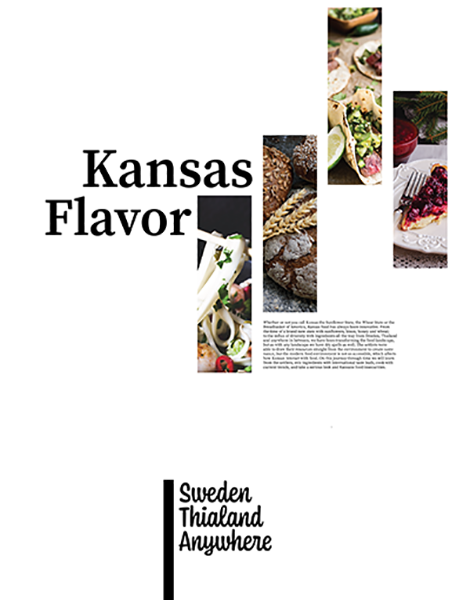
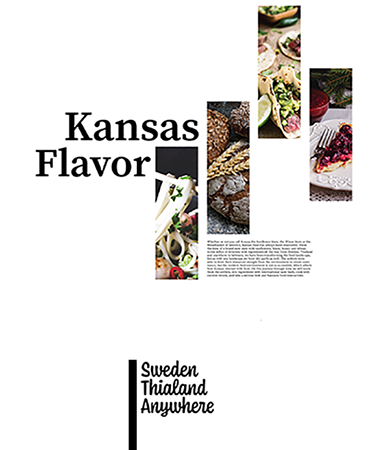
Edited size of work

diff --git a/style.css b/style.css
@@ -110,7 +110,7 @@
 
     .hunteroverlap {
         display: grid;
-        grid-template-columns: 1fr .5fr 1fr;
+        grid-template-columns: 1fr.7fr 1fr;
         grid-template-rows: 70px 550px;
         width: 60vw;
         margin: auto;
